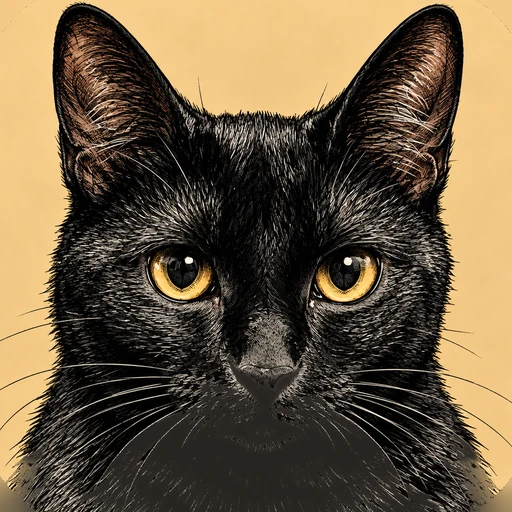
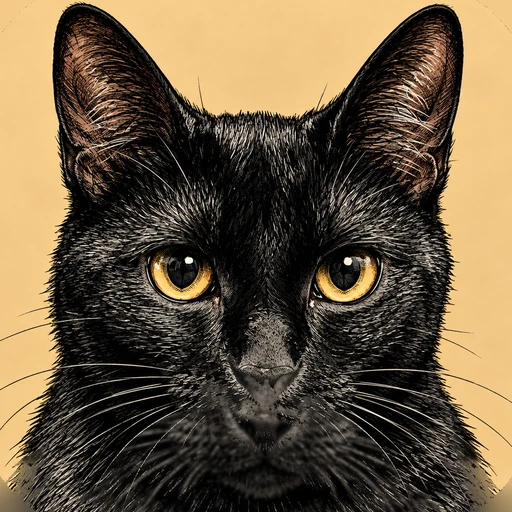
fix(brand): Luna's chest filled with her own fur, not a flat patch (#21)
Her hole had the right colour but no strokes, so it read as a blurred smudge in
the middle-bottom of the cover. The fill now keys the tile's gold out of the
texture source first (14% colour key on the sampled tile colour), so the
diffusion can only pull fur tones into the hole, and a rolled copy of that
fur-only source lays fur strokes on top. The corners keep the full-art
diffusion, which is why they stay the tile's gold.

Changed region(s): [[0.2188, 0.7188, 0.7812, 1.0], [0.875, 0.8438, 0.9375, 0.9062], [0.75, 0.9688, 0.8438, 1.0]]

diff --git a/odd/tasks/visual-polish.md b/odd/tasks/visual-polish.md
@@ -50,7 +50,11 @@ S11 — The project covers are full-bleed squares built from the art the owner p
 Quotes, eighth round: "Ultimo intento. Nada de doble margen, no me cambies como tal el diseño del gato. No les cambies el color y vuelve a solo cortarlas y acomodarlas".
 Reading, now settled: the showcase (`showcase/02_asset_distribution_showcase.png`) shows the pack's own design — a rounded tile with generous padding around the head, on the brand colour — so the "double margin" the owner sees is the tile's frame *plus* the card's box. The instruction is literal: crop the frame away (the site's original treatment) and keep the two things that were genuinely broken — the keyed holes and the clipped ears — fixed.
 Acceptance: each `public/apps/*/icon.webp` is the pack's `icon-1024.png` **cropped to 88%** (which removes the tile's rounded corners and its edge shading while leaving the ear tips, measured between 7% and 10% from the edge, intact), then filled in two stages — diffusion for any residual corner transparency, the art's own fur rolled 120px down through a corner-free mask for the keyed holes — and resized to a 512x512 opaque square. No rim, no inner margin beyond the card's own, no invented colour, whole head.
-Status: done. History: 80% crop -> 86% crop -> whole tile, gold corners -> v2 whole tile -> diffusion only -> diffusion + rolled fur -> diffusion + rolled fur + 88% crop.
+Status: done. History: 80% crop -> 86% crop -> whole tile, gold corners -> v2 whole tile -> diffusion only -> diffusion + rolled fur -> diffusion + rolled fur + 88% crop -> flat fur-coloured holes -> Luna's own-fur fill.
+
+S11b — Luna's chest is fur, not a flat patch.
+Quote: "todos estan bien, menos otra vez por difuminacion en la parte del centro abajo [Image 2] la negrita LUNA :(. SOlo ajusta esa".
+Reading: a flat fill has no strokes, so her chest read as a blurred smudge even with the right colour. Acceptance: Luna's hole is filled with **her own fur only** — the tile's gold is keyed out of the texture source first (a 14% colour key on the sampled tile colour), so the diffusion can only pull fur tones in, and a rolled copy of that fur-only source lays strokes on top. The corners keep the full-art diffusion, hence the tile's gold. Verified: the corner reads `srgb(244,202,137)` (the tile's own gold) and the chest reads fur-tone `srgb(76,70,63)` with visible hatching.
 
 S18 — The Look'n'Feel plugin cover is the art from the icons folder, uncropped.
 Quote: "la imagen original de looknfeel que ambien esta en la carpeta de iconos no tiene tanto zoom".
@@ -111,6 +115,9 @@ T26 (S11) The five covers rebuilt again, this time with the art's own fur rolled
 T27 (S18) The Look'n'Feel cover rebuilt from the uncropped Siamese art with the grey surround flood-filled to `srgb(197,102,72)` — inline — done. Ears intact; no grey, no frame.
 T28 (S19) Cover art from 92% to 84% of the box, rendered check pinned as a 0.78-0.9 band — inline — done. Suite 71/71 again after the change.
 T29 (S11/S18) Covers cropped to 88% before the fills (the frame gone, the ears kept) and the Look'n'Feel cover rebuilt from the icons-folder Siamese, uncropped with its surround flooded to `srgb(1,65,81)` — inline — done. Suite 71/71, `astro check` 0 errors, build exit 0; both sections reviewed in the render.
+T30 (S11) Holes filled flat with the colour they were cut from: white for Kiroi, Lucky, Mochi and Yummi, Luna's sampled fur for Luna — inline — done, `dc8b34d`. Fixed the blue patch on Mochi's forehead and the olive one on Luna's chest that the fur roll had dragged in.
+T31 (S18) Look'n'Feel cover rebuilt from the owner's own art at `iconos mepersoft/omarchy-plugins/loknfeel.jpg` (the file that moved out of Downloads) — inline — done, `dc8b34d`.
+T32 (S11b) Luna's hole filled with her own fur only: the tile's gold keyed out of the texture source, diffusion plus a rolled copy for strokes, corners still gold — inline — done. Verified: corner `srgb(244,202,137)`, chest `srgb(76,70,63)` with hatching.
 
 ## Log
 
@@ -209,6 +216,14 @@ L31 (verbatim, owner — eighth message):
 L32 — The showcase plate settles the design question the crops kept raising: the pack's own art is a rounded tile with generous padding, so cropping the frame is not "altering the design", it is the intended web treatment — and it is what removes the double margin (the tile's edge plus the card's box) the owner photographed. 88% is the value that clears the frame and the edge shading while leaving the ear tips, which sit between 7% and 10% from the edge, untouched. The fills stay for what is genuinely broken: the keyed holes (fur) and, in the previous round, the clipped ears.
 
 L33 — Look'n'Feel: the icons folder holds the plugin's original art (`Plugins Omarchy/…_19_54_18.png`, the Siamese at 1254x1254), wider than the file used before, so the cover now comes from there with its surround flooded to the tile's own teal — no crop, hence no zoom of mine.
+
+L34 (verbatim, owner — ninth message):
+> [Image 1] todos estan bien, menos otra vez por difuminacion en la parte del centro abajo [Image 2] la negrita LUNA :(. SOlo ajusta esa
+
+L35 — Two corrections came out of that round and both are recorded above: the fur roll had been dragging the tile's background into the holes (blue on Mochi's forehead, olive on Luna's chest), which flat fur-coloured fills fixed; and the owner's Siamese art had moved out of Downloads into the icons pack as `omarchy-plugins/loknfeel.jpg`, which is why my script could not find it.
+
+L36 — The last one is a lesson about fills: the colour was right but a flat fill has no strokes, so Luna's chest read as a blur. Keying the tile's gold out of the *texture source* before diffusing it is what makes a fill that is both the right colour and textured — the fill can then only pull fur tones, and a rolled copy of that same fur-only source lays the strokes.
+
 
 
 
